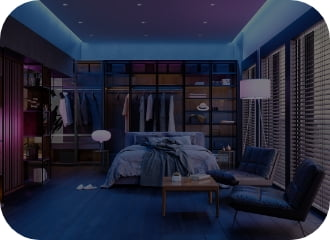
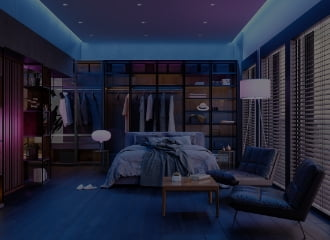
웹 이미지 radius 변경

diff --git a/index.html b/index.html
@@ -394,34 +394,35 @@
               </div>
             </div>
           </div>
-
-          <div class="row row-40">
-            <div class="col-sm-3">
-              <div class="normal-box normal-box-kr">
-                <h5>AXIO-BOOT</h5>
-                <p>AXIO-BOOT는 디바이스의 고유ID 생성 (DICE), 시큐어부트 (Secure Boot), 시큐어업데이트(Secure Update), 시큐어스토리지(Secure Storage), Secure Debug(시큐어디버그) 등  디바이스 보안의 핵심적인 기능을 제공하는 보안 플랫폼입니다.</p>
+          <div class="kr-box-wrapper">
+            <div class="row row-40">
+              <div class="col-sm-3">
+                <div class="normal-box normal-box-kr">
+                  <h5>AXIO-BOOT</h5>
+                  <p>AXIO-BOOT는 디바이스의 고유ID 생성 (DICE), 시큐어부트 (Secure Boot), 시큐어업데이트(Secure Update), 시큐어스토리지(Secure Storage), Secure Debug(시큐어디버그) 등  디바이스 보안의 핵심적인 기능을 제공하는 보안 플랫폼입니다.</p>
+                </div>
+              </div>
+              <div class="col-sm-3">
+                <div class="normal-box normal-box-kr">
+                  <h5>AXIO-CRYPTO</h5>
+                  <p>Certified (FIPS 140-2, KCMVP)</p>
+                </div>
+              </div>
+              <div class="col-sm-3">
+                <div class="normal-box normal-box-kr">
+                  <h5>AXIO-CRYPTO</h5>
+                  <p>는 Arm Cortex-M23과 같이 리소스가 제한적인 임베디드 시스템에서 탁월한 성능을 갖추었으며, 신뢰실행환경(TEE: Trusted Execution Environment)에서 동작하여 안전한 키관리를 보장하는 디지털서명 및 암호연산 알고리즘입니다. (FIPS 140-2, KCMVP Certified.)</p>
+                </div>
+              </div>
+              <div class="col-sm-3">
+                <div class="normal-box normal-box-kr">
+                  <h5>AXIO-MANAGER</h5>
+                  <p>사람이 개입하지 않는 IoT 디바이스는 제조, 생산 과정에서 혹은 설치 운영과정에서 언제든지 공격에 노출될 수 있습니다. AXIO-MANAGER는 디바이스의 등록, 인증, 펌웨어 검증, Diff. Generator를 통한 신속한 OTA 를  통해 IoT 디바이스의 라이프사이클에 대한 보안관리를  제공합니다.</p>
+                </div>
               </div>
             </div>
-            <div class="col-sm-3">
-              <div class="normal-box normal-box-kr">
-                <h5>AXIO-CRYPTO</h5>
-                <p>Certified (FIPS 140-2, KCMVP)</p>
-              </div>
-            </div>
-            <div class="col-sm-3">
-              <div class="normal-box normal-box-kr">
-                <h5>AXIO-CRYPTO</h5>
-                <p>는 Arm Cortex-M23과 같이 리소스가 제한적인 임베디드 시스템에서 탁월한 성능을 갖추었으며, 신뢰실행환경(TEE: Trusted Execution Environment)에서 동작하여 안전한 키관리를 보장하는 디지털서명 및 암호연산 알고리즘입니다. (FIPS 140-2, KCMVP Certified.)</p>
-              </div>
-            </div>
-            <div class="col-sm-3">
-              <div class="normal-box normal-box-kr">
-                <h5>AXIO-MANAGER</h5>
-                <p>사람이 개입하지 않는 IoT 디바이스는 제조, 생산 과정에서 혹은 설치 운영과정에서 언제든지 공격에 노출될 수 있습니다. AXIO-MANAGER는 디바이스의 등록, 인증, 펌웨어 검증, Diff. Generator를 통한 신속한 OTA 를  통해 IoT 디바이스의 라이프사이클에 대한 보안관리를  제공합니다.</p>
-              </div>
-            </div>
-
           </div>
+          
           <div class="group-finish-line"></div>
         </div>
       </div> 

diff --git a/css/component.css b/css/component.css
@@ -344,6 +344,19 @@
   position: relative;
   margin-bottom: 40px;
 }
+.card-round-full img {
+  -webkit-border-radius: 40px;
+  -moz-border-radius: 40px;
+  border-radius: 40px;
+}
+@media (max-width: 767px) {
+  .card-round-full img {
+    -webkit-border-radius: 30px;
+    -moz-border-radius: 30px;
+    border-radius: 30px;
+  }
+}
+
 .card-round-full .title-base {
   position: absolute;
   left: 0;
@@ -636,4 +649,8 @@ footer {
 
 .lang-kr.active {
   display: block;
+}
+
+.kr-box-wrapper {
+  margin-top: 240px;
 }

diff --git a/css/layout.css b/css/layout.css
@@ -16,12 +16,14 @@ header {
   z-index: 103;
   width: 100%;
   background-color: #fff;
+  transition: box-shadow 1s ease;
   -moz-box-shadow: 0 4px 8px 0 rgba(0, 0, 0, 0.2);
   -webkit-box-shadow: 0 4px 8px 0 rgba(0, 0, 0, 0.2);
   box-shadow: 0 4px 8px 0 rgba(0, 0, 0, 0.2);
 }
 
 header.header--transparent {
+  transition: box-shadow 0s ease;
   box-shadow: none;
   background-color: transparent;
 }

diff --git a/css/section.css b/css/section.css
@@ -365,6 +365,7 @@
 
 .car-process-img {
   margin-top: 40px;
+  margin-bottom: 100px;
 }
 
 .car-factory-img {
